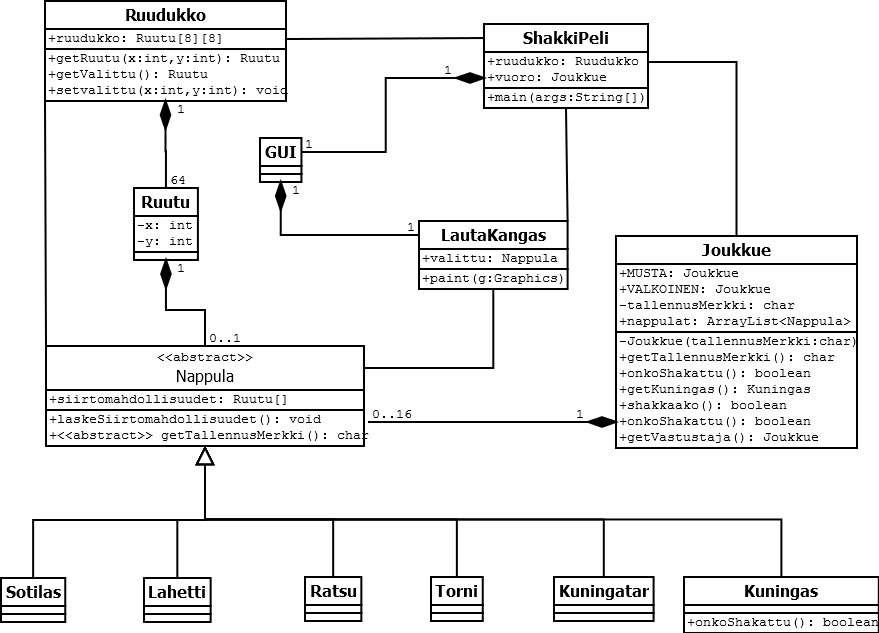
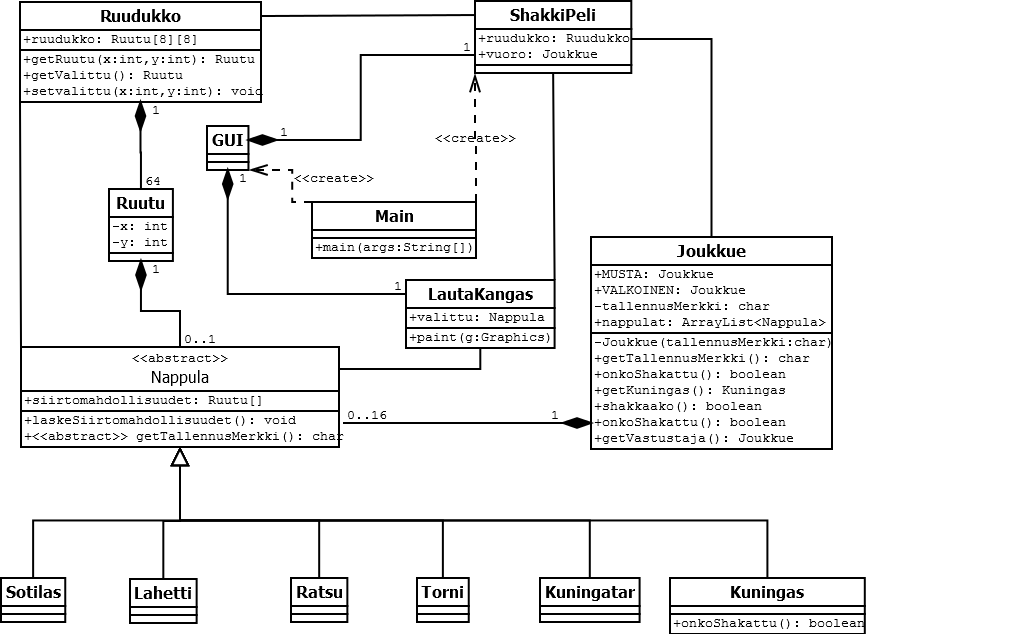
Rakennetta muutettu. Käyttöliittymä edistynyt hieman

Changed region(s): [[0.0, 0.0, 1.0, 1.0]]

diff --git a/Kaksinpeli-shakki/src/kayttoliittyma/GUI.java b/Kaksinpeli-shakki/src/kayttoliittyma/GUI.java
@@ -4,6 +4,12 @@
  */
 package kayttoliittyma;
 
+import java.awt.FlowLayout;
+import java.awt.event.ActionEvent;
+import java.awt.event.ActionListener;
+import java.io.File;
+import javax.swing.JButton;
+import javax.swing.JFileChooser;
 import javax.swing.JFrame;
 import logiikka.ShakkiPeli;
 
@@ -21,9 +27,44 @@ public class GUI extends JFrame {
         setTitle("Kaksinpeli-shakki");
         setDefaultCloseOperation(EXIT_ON_CLOSE);
         this.lautaKangas = new LautaKangas(shakkiPeli);
+        setLayout(new FlowLayout());
         add(lautaKangas);
+        lisaaNappulat();
         setVisible(true);
         pack();
+    }
+    
+    
+    private File kayttajanValitsemaTiedosto(String hyvaksyNappulanTeksti) {
+        JFileChooser fileChooser = new JFileChooser();
+        int tulos = fileChooser.showDialog(this, hyvaksyNappulanTeksti);
+        if (tulos == JFileChooser.APPROVE_OPTION) {
+            return fileChooser.getSelectedFile();
+        } else {
+            return null;
+        }
+    }
+    
+    private void lisaaNappulat() {
+        //Avaa nappula
+        JButton avaaPeli = new JButton("Avaa peli");
+        avaaPeli.addActionListener(new ActionListener() {
+            @Override
+            public void actionPerformed(ActionEvent e) {
+                kayttajanValitsemaTiedosto("Open");
+            }
+        });
+        add(avaaPeli);
+        
+        //Tallenna nappula
+        JButton tallennaPeli = new JButton("Tallenna peli");
+        tallennaPeli.addActionListener(new ActionListener() {
+            @Override
+            public void actionPerformed(ActionEvent e) {
+                kayttajanValitsemaTiedosto("Save");
+            }
+        });
+        add(tallennaPeli);
     }
     
     public ShakkiPeli getShakkiPeli() {

diff --git a/Kaksinpeli-shakki/src/logiikka/ShakkiPeli.java b/Kaksinpeli-shakki/src/logiikka/ShakkiPeli.java
@@ -4,7 +4,7 @@ import kayttoliittyma.GUI;
 import kayttoliittyma.Kuvat;
 import logiikka.joukkueet.Joukkue;
 import logiikka.lauta.Ruudukko;
-import tiedostonLuku.Lukija;
+import tiedostonKasittely.Lukija;
 
 /**
  * Isäntäluokka josta käsin on saatavilla kaikki shakkipelin kannalta olennainen tieto.
@@ -14,11 +14,19 @@ public class ShakkiPeli {
     private Joukkue vuoro;
     private Ruudukko ruudukko;
     
+    /**
+     * Luo uuden shakkipelin aloitusLauta.txt tiedostosta.
+     * @throws Exception 
+     */
     public ShakkiPeli() throws Exception {
         Lukija lukija = new Lukija("aloitusLauta.txt");
         ruudukko = new Ruudukko(lukija.getText());
-        GUI gui = new GUI(this);
         setVuoro(Joukkue.VALKOINEN);
+    }
+    
+    public ShakkiPeli(Ruudukko ruudukko, Joukkue vuoro) {
+        this.ruudukko = ruudukko;
+        setVuoro(vuoro);
     }
     
     public Ruudukko getRuudukko() {
@@ -51,13 +59,4 @@ public class ShakkiPeli {
         }
     }
     
-    /**
-     * Käynnistää Kaksinpeli-shakin ja graafisen käyttöliittymän.
-     * @param args Mitä tahansa(ei merkitystä).
-     * @throws Exception Jos aloitusLauta.txt sisältää vääriä merkkejä
-     */
-    public static void main(String[] args) throws Exception {
-        new Kuvat();
-        new ShakkiPeli();
-    }
 }

diff --git a/Kaksinpeli-shakki/src/tiedostonKasittely/PeliTiedostoProtokolla.java b/Kaksinpeli-shakki/src/tiedostonKasittely/PeliTiedostoProtokolla.java
@@ -1,0 +1,46 @@
+/*
+ * To change this template, choose Tools | Templates
+ * and open the template in the editor.
+ */
+package tiedostonKasittely;
+
+import java.io.File;
+import java.io.FileNotFoundException;
+import logiikka.ShakkiPeli;
+import logiikka.lauta.Ruudukko;
+
+/**
+ * KESKEN
+ * @author Antti
+ */
+public class PeliTiedostoProtokolla {
+    
+    public ShakkiPeli tekstiShakkiPeliksi(String teksti) {
+        return null;
+    }
+    
+    public String shakkiPeliTekstiksi(ShakkiPeli shakkiPeli) {
+        return null;
+    }
+    
+    public static ShakkiPeli avaaPeli(File tiedosto) {
+        Lukija lukija;
+        try {
+            lukija = new Lukija(null);
+        } catch (FileNotFoundException ex) {
+            return null;
+        }
+        Ruudukko ruudukko;
+        try {
+            ruudukko = new Ruudukko(lukija.getText());
+        } catch (Exception ex) {
+            return null;
+        }
+        //tulos.setVuoro(Joukkue.VALKOINEN);
+        return null;
+    }
+    
+    public static boolean tallennaPeli(ShakkiPeli shakkiPeli, File tiedosto) {
+        return false;
+    }
+}

diff --git a/Kaksinpeli-shakki/src/Main.java b/Kaksinpeli-shakki/src/Main.java
@@ -1,0 +1,26 @@
+
+import kayttoliittyma.GUI;
+import kayttoliittyma.Kuvat;
+import logiikka.ShakkiPeli;
+
+/*
+ * To change this template, choose Tools | Templates
+ * and open the template in the editor.
+ */
+
+/**
+ * Ohjelman käynnistävä luokka
+ * @author Antti
+ */
+public class Main {
+    
+    /**
+     * Käynnistää Kaksinpeli-shakin ja graafisen käyttöliittymän.
+     * @param args Mitä tahansa(ei merkitystä).
+     * @throws Exception Jos aloitusLauta.txt sisältää vääriä merkkejä
+     */
+    public static void main(String[] args) throws Exception {
+        Kuvat.lataaKuvat();
+        GUI gui = new GUI(new ShakkiPeli());
+    }
+}

diff --git a/Kaksinpeli-shakki/src/kayttoliittyma/Kuvat.java b/Kaksinpeli-shakki/src/kayttoliittyma/Kuvat.java
@@ -30,7 +30,10 @@ public class Kuvat {
     public static BufferedImage VALKOINEN_SOTILAS;
  
     
-    public Kuvat() {
+    private Kuvat() {
+    }
+    
+    public static void lataaKuvat() {
         MUSTA_KUNINGAS = lataaKuva("kuvat/nappulat/mustat/Kuningas.png");
         MUSTA_KUNINGATAR = lataaKuva("kuvat/nappulat/mustat/Kuningatar.png");
         MUSTA_TORNI = lataaKuva("kuvat/nappulat/mustat/Torni.png");

diff --git a/Kaksinpeli-shakki/src/logiikka/nappulat/Nappula.java b/Kaksinpeli-shakki/src/logiikka/nappulat/Nappula.java
@@ -122,7 +122,7 @@ public abstract class Nappula {
         ruutu.setNappula(syotyNappula);
         if (syotyNappula != null) joukkue.getVastustaja().addNappula(syotyNappula);
         joukkue.getVastustaja().laskeSiirtoMahdollisuudet(false);
-        System.out.println(tulos);
+        //System.out.println(tulos);
         return tulos;
      }
     

diff --git a/Kaksinpeli-shakki/src/tiedostonKasittely/Kirjoittaja.java b/Kaksinpeli-shakki/src/tiedostonKasittely/Kirjoittaja.java
@@ -1,0 +1,14 @@
+/*
+ * To change this template, choose Tools | Templates
+ * and open the template in the editor.
+ */
+package tiedostonKasittely;
+
+import java.io.File;
+
+/**
+ * KESKEN
+ * @author Antti
+ */
+public class Kirjoittaja {
+}

diff --git a/Kaksinpeli-shakki/src/tiedostonKasittely/Lukija.java b/Kaksinpeli-shakki/src/tiedostonKasittely/Lukija.java
@@ -1,4 +1,4 @@
-package tiedostonLuku;
+package tiedostonKasittely;
 
 import java.io.File;
 import java.io.FileNotFoundException;
